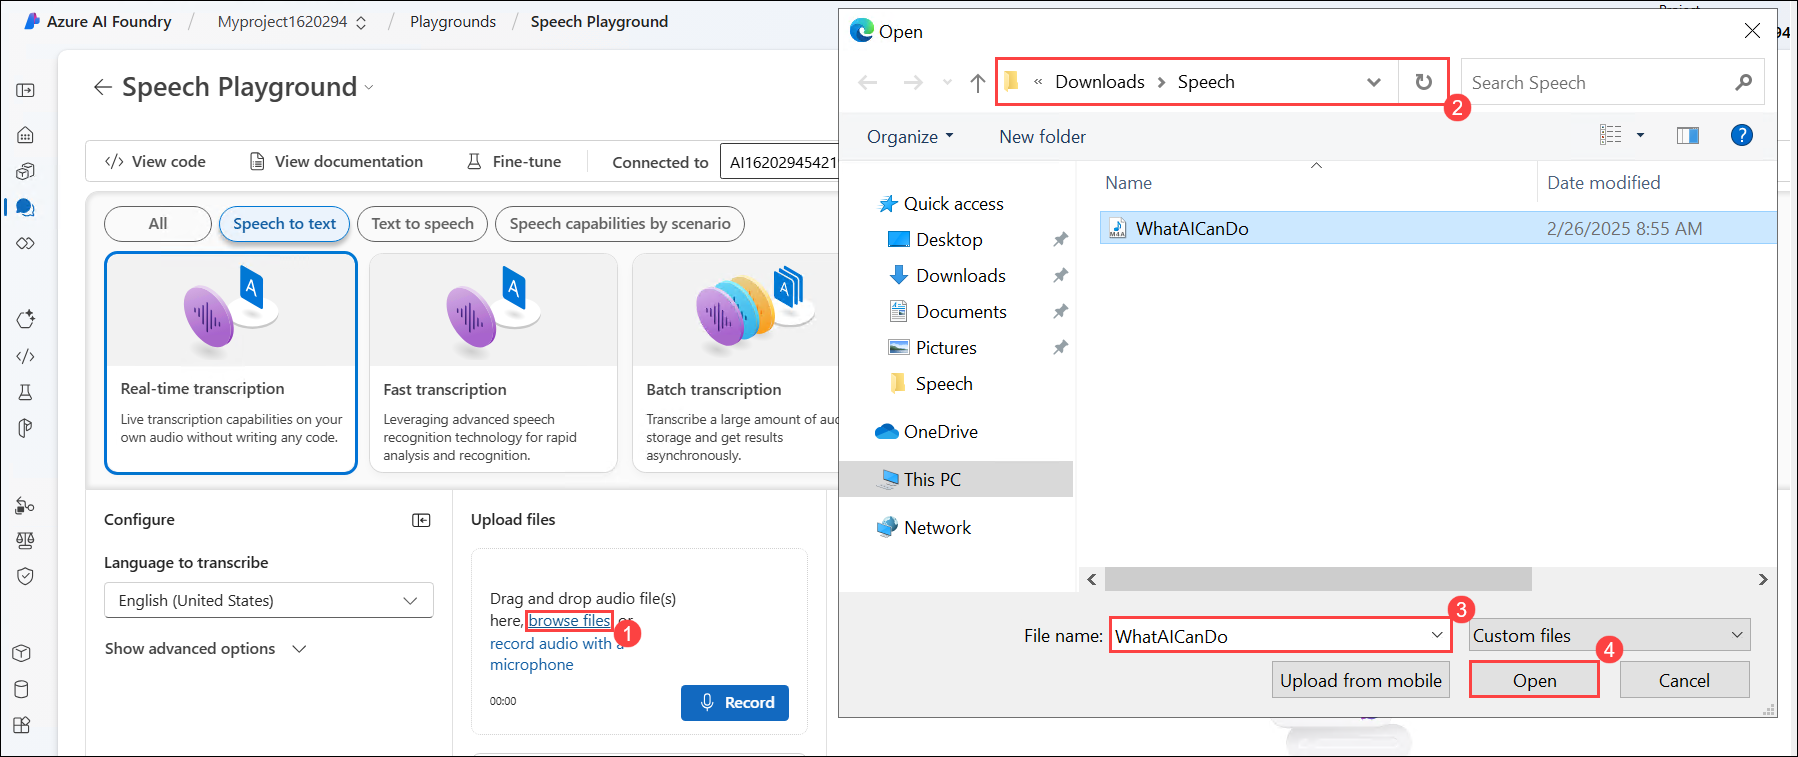
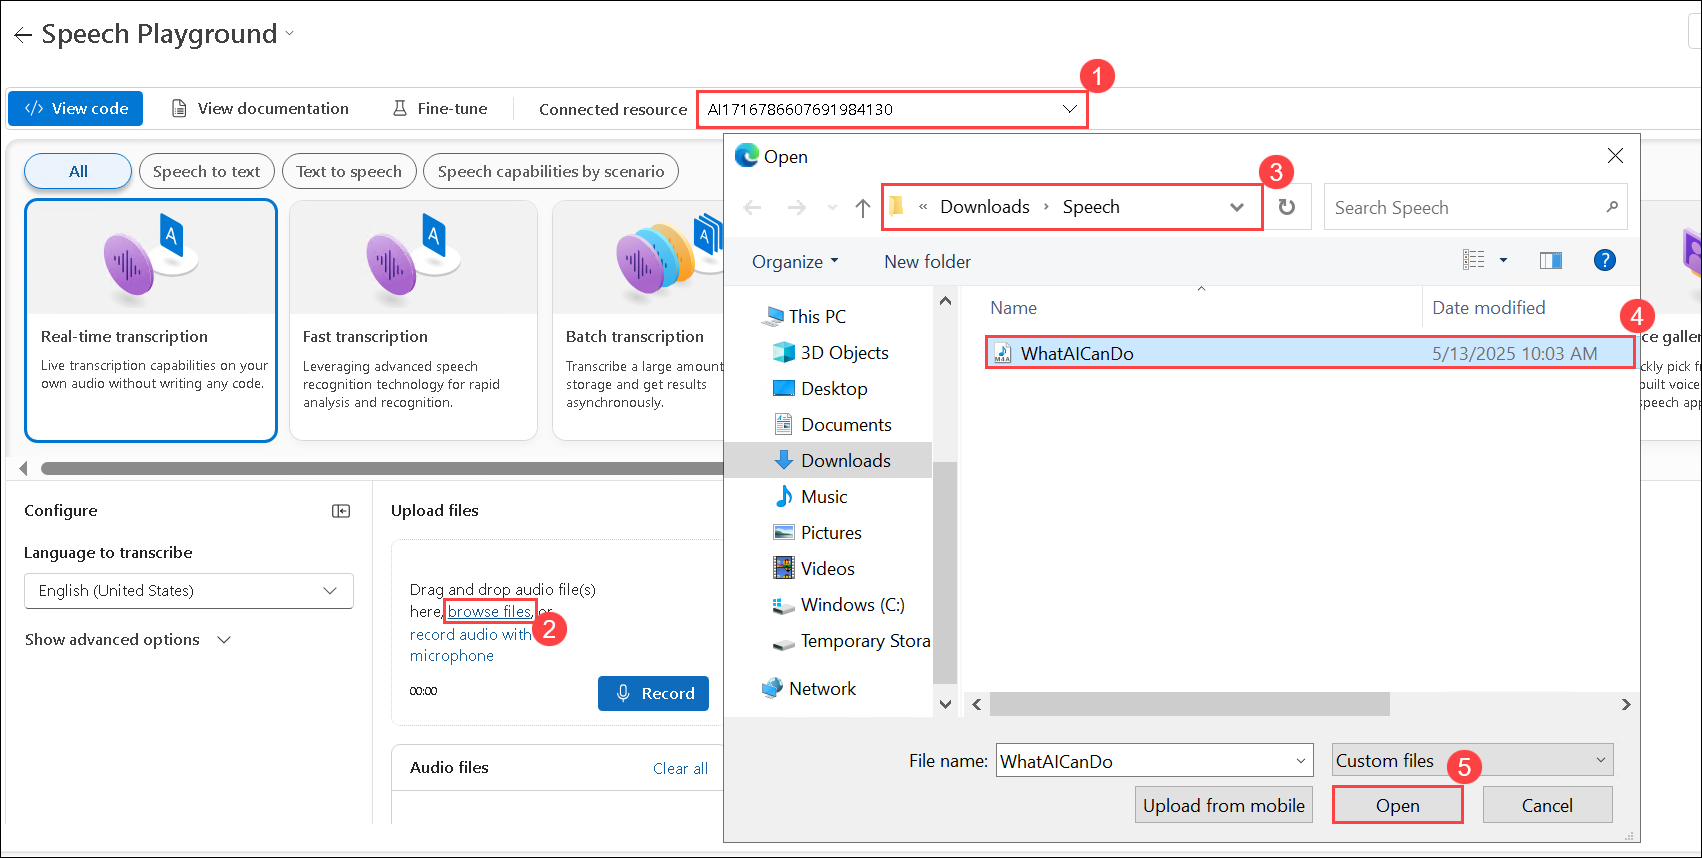
updated

diff --git a/Instructions/Labs/09-speech.md b/Instructions/Labs/09-speech.md
@@ -122,7 +122,7 @@ Let's try out *real time speech to text* in Azure AI Foundry's Speech Playground
 
    ![](./media/9-5.png)
 
-1. Go back to the Azure AI Foundry portal and upload the **WhatAICanDo.m4a** image by clicking **Browse files (1)**. Then, navigate to the **C:\Users\azureuser\Downloads\Speech (2)** folder, select **WhatAICanDo (3)**, and click **Open (4)**.
+1. Go back to the Azure AI Foundry portal, select your resource **(1)**, click **Browse files (2)** to upload the **WhatAICanDo.m4a** file, navigate to **C:\Users\azureuser\Downloads\Speech (3)**, select **WhatAICanDo (4)**, and click **Open (5)** to begin transcription.
 
    ![](./media/9-7.png)
 
